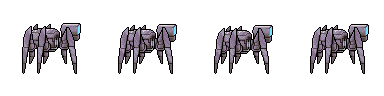
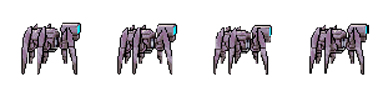
style: redrawn Spider sprites via Photoshop for consistent pixel art style

diff --git a/models/spider.class.js b/models/spider.class.js
@@ -3,6 +3,7 @@ class Spider extends MoveableObject {
     AGGRO_RANGE = 200;
     CHASE_SPEED = 2;
     NORMAL_SPEED = 1;
+    VIEW_DISTANCE = 450;
 
     animations = {
         idle: { path: 'assets/img/03_enemies/spider/Idle.png', frames: 4, speed: 6 },
@@ -30,8 +31,7 @@ class Spider extends MoveableObject {
             this.handleDeath();
             return;
         }
-
-        this.handleAI();
+        this.updateBehavior();
         super.animate();
         this.applyGravity();
     }
@@ -46,25 +46,36 @@ class Spider extends MoveableObject {
         }
     }
 
-    handleAI() {
+    updateBehavior() {
         if (!this.world || !this.world.character) return;
 
-        let distance = Math.abs(this.x - this.world.character.x);
+        let diff = this.x - this.world.character.x;
+        let distance = Math.abs(diff);
 
+        if (distance > this.VIEW_DISTANCE) {
+            this.isMirrored = true;
+            this.playAnimation('idle');
+            return;
+        }
         if (this.isColliding(this.world.character)) {
             this.playAnimation('attack');
-        } else {
-            this.pursueCharacter(distance);
+        }
+        else if (distance > 10) {
+            this.pursueCharacter(diff, distance);
+        }
+        else {
+            this.playAnimation('idle');
         }
     }
 
-    pursueCharacter(distance) {
-        if (distance < this.AGGRO_RANGE) {
-            this.speed = this.CHASE_SPEED;
+    pursueCharacter(diff, distance) {
+        this.speed = (distance < this.AGGRO_RANGE) ? this.CHASE_SPEED : this.NORMAL_SPEED;
+
+        if (diff > 0) {
+            this.moveLeft();
         } else {
-            this.speed = this.NORMAL_SPEED;
+            this.moveRight();
         }
-        this.moveLeft();
         this.playAnimation('walk');
     }
 }
